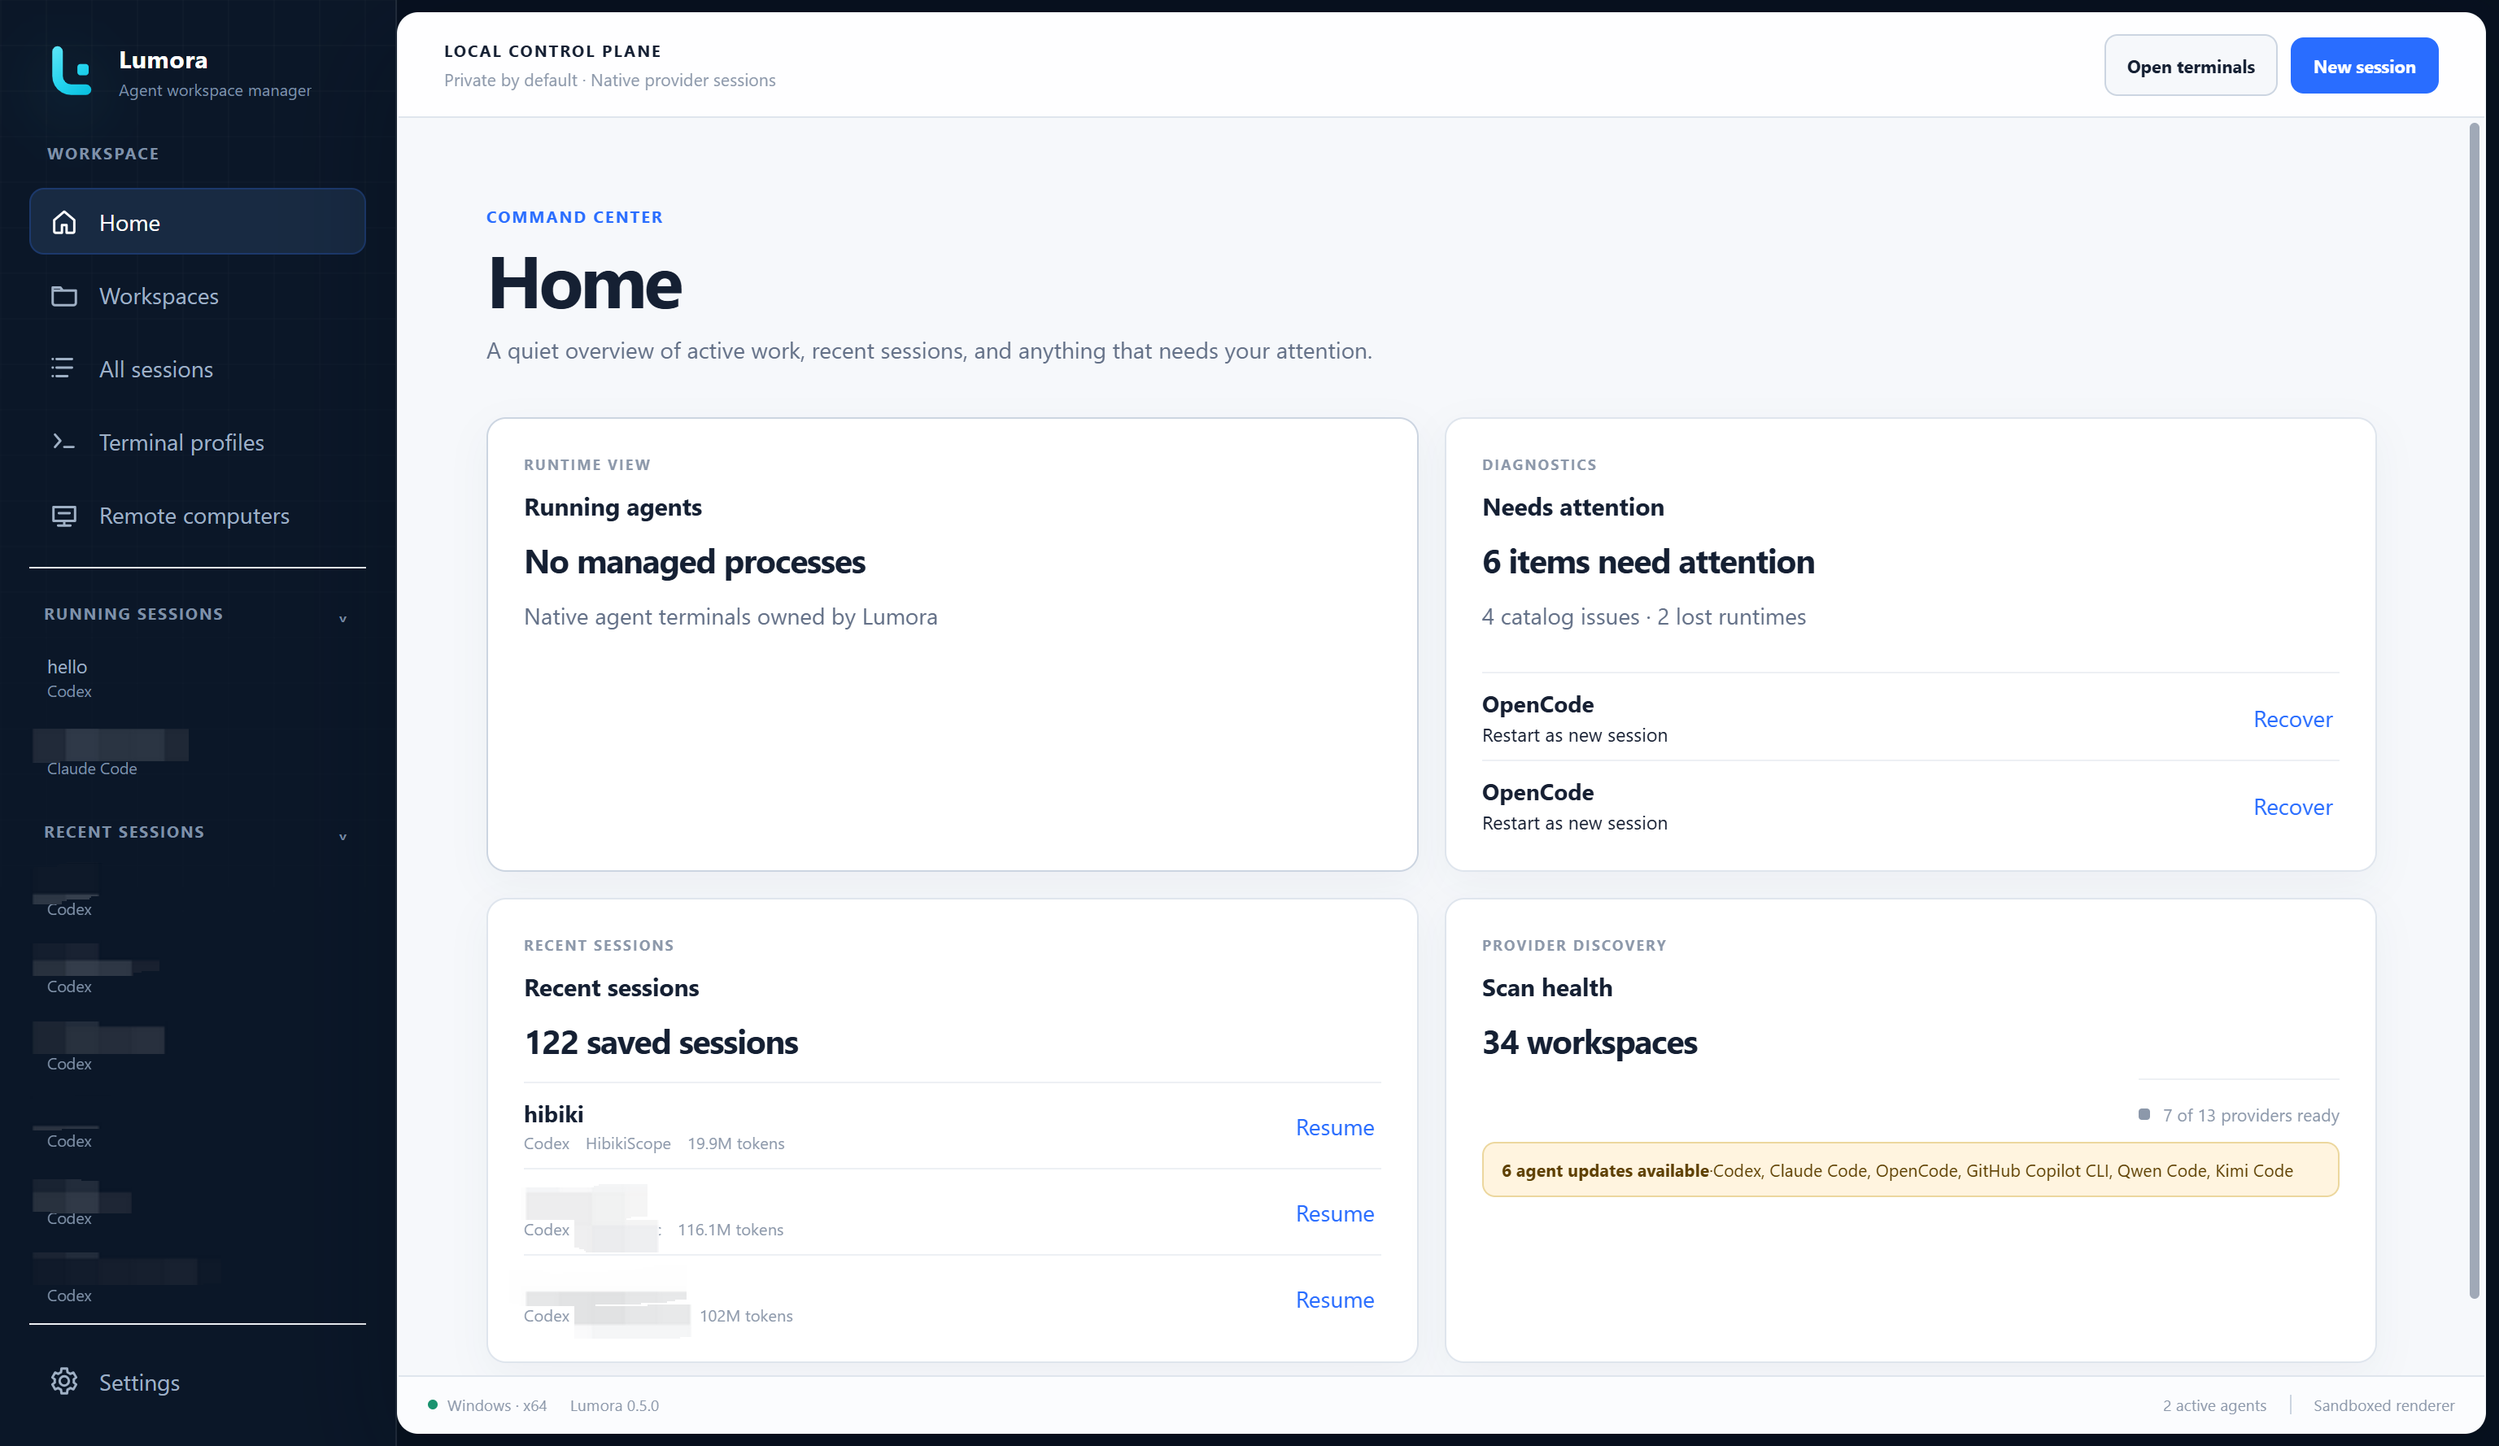
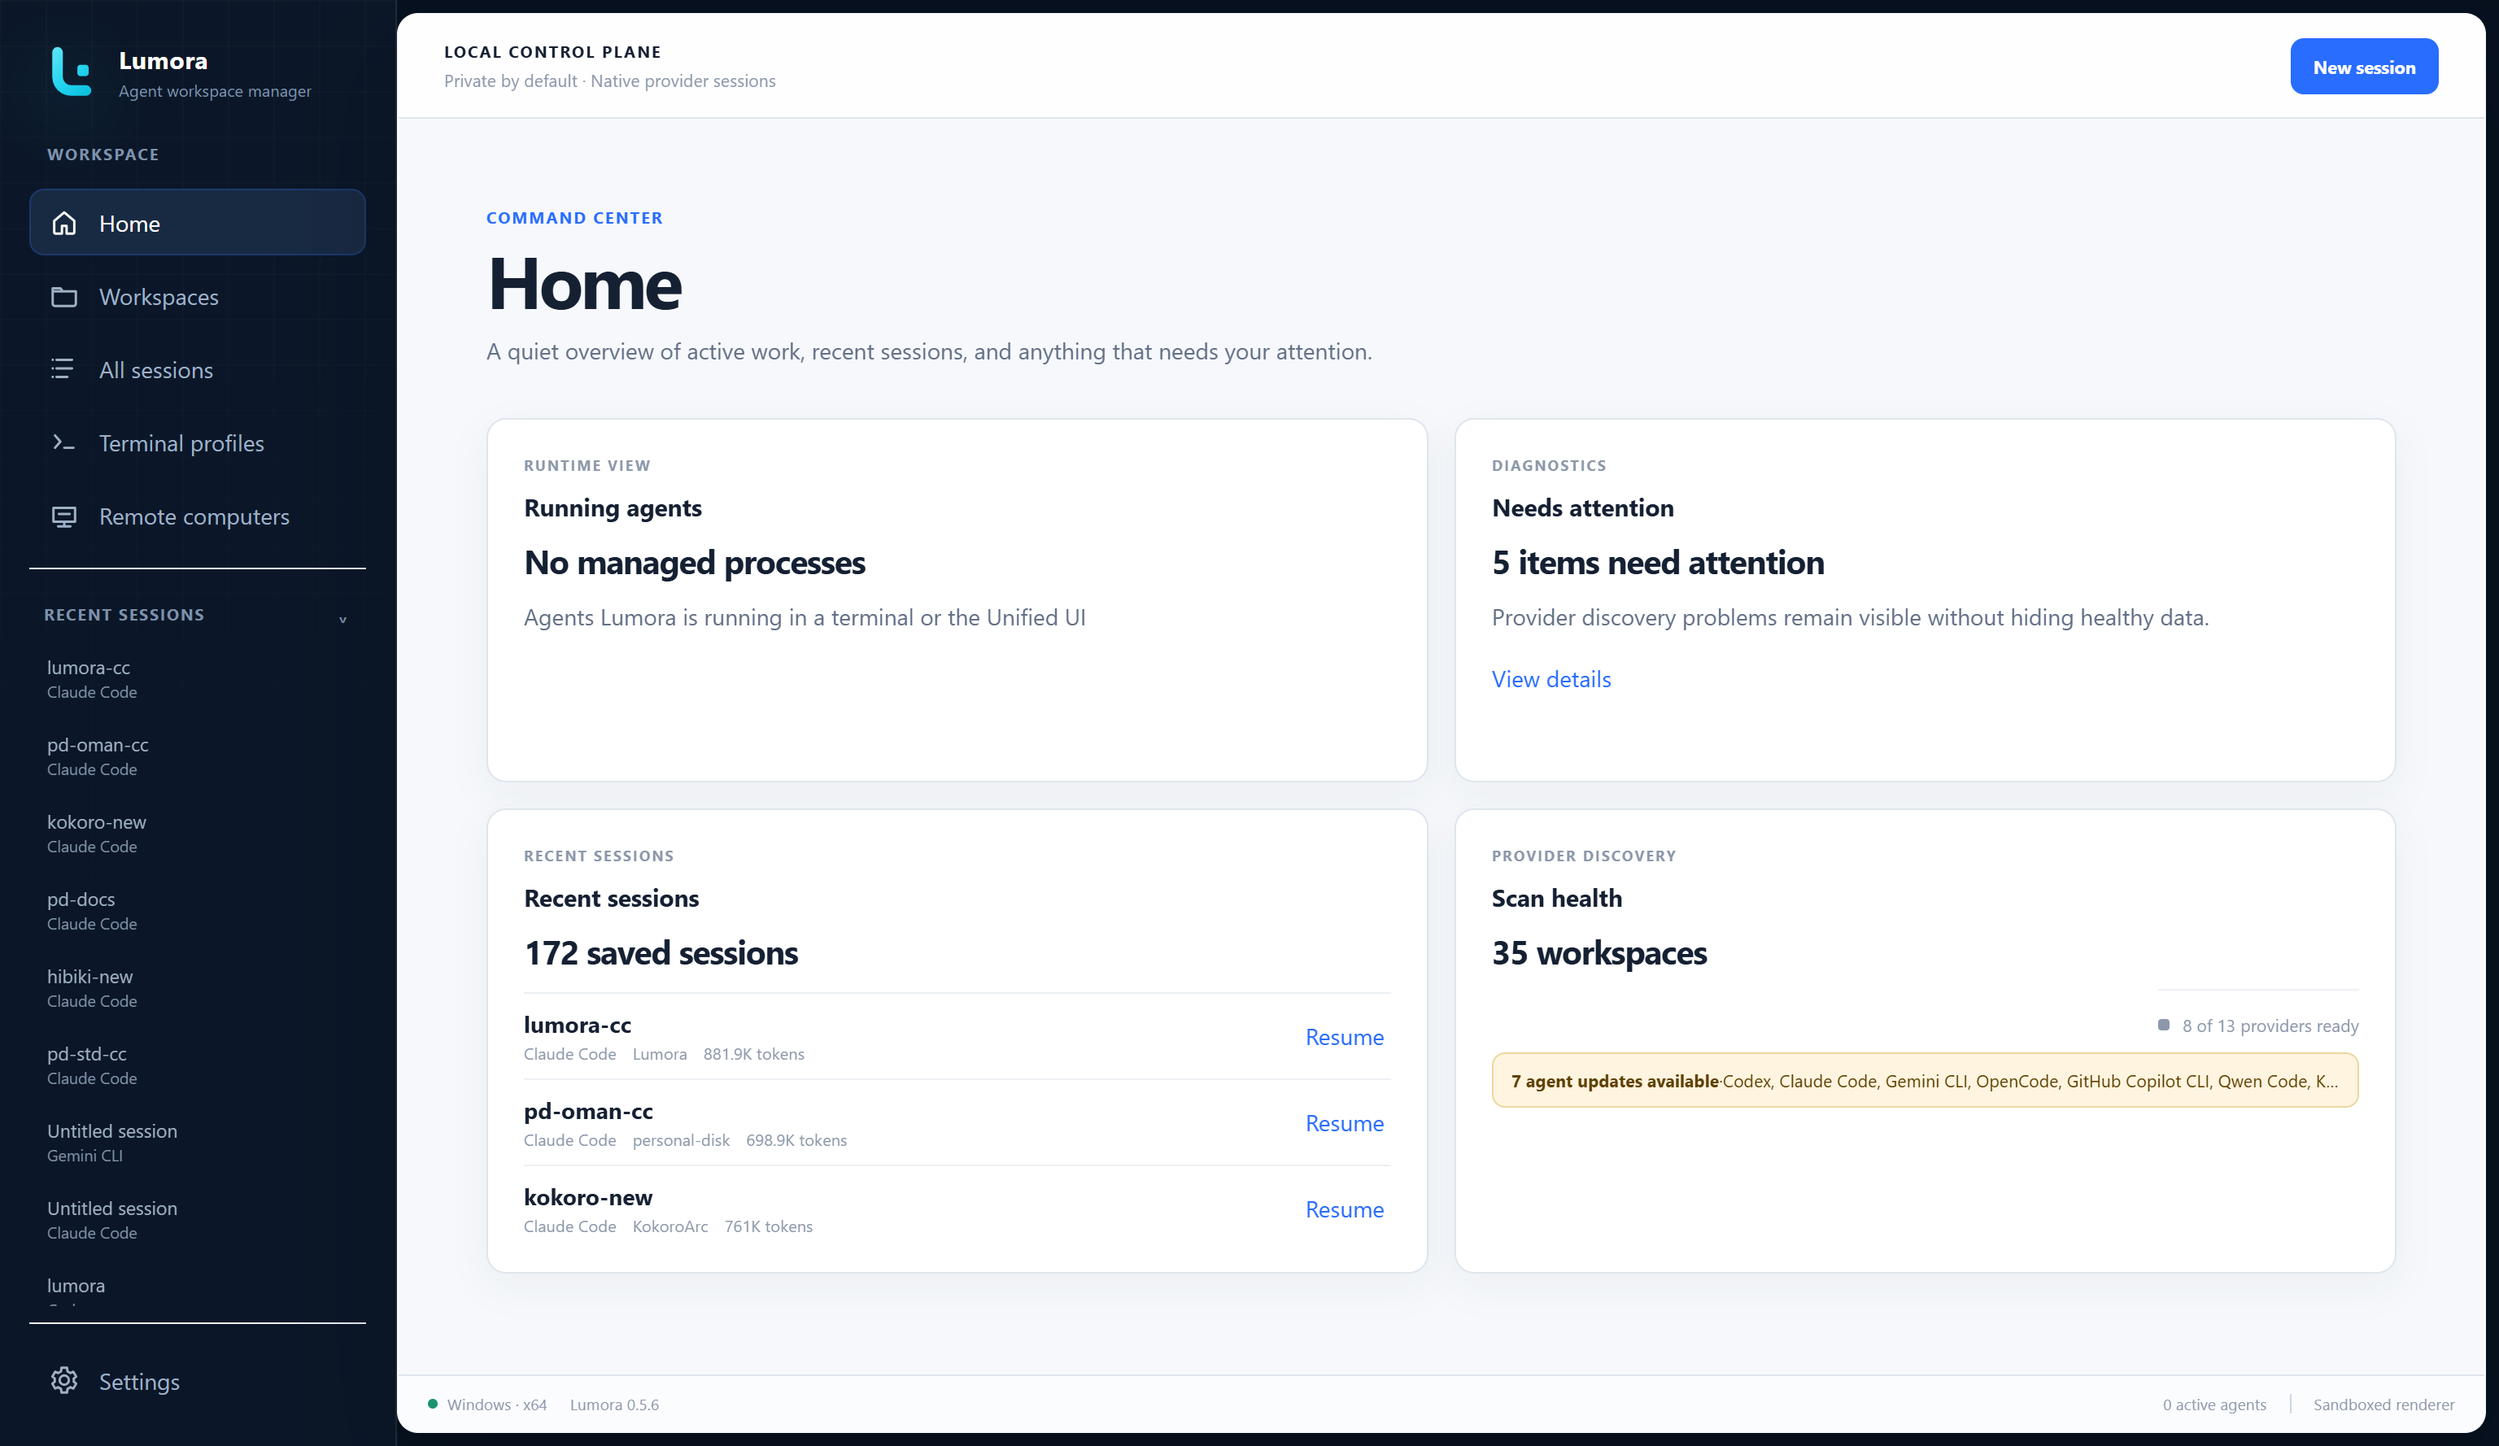
chore: release Lumora 0.5.6

diff --git a/docs/USER_GUIDE.md b/docs/USER_GUIDE.md
@@ -29,6 +29,10 @@ healthy providers from working.
 Home summarizes running agents, recent provider-owned sessions, catalog
 health, and provider updates that need attention.
 
+**Needs attention** reports one count. **View details** beside it opens a
+dialog listing each catalog issue with what it affects and how to clear it,
+and every lost runtime with its recovery action.
+
 <p align="center">
   <img src="screenshots/0.5/core/home.png" alt="Lumora 0.5 Home with running and recent sessions in the expanded sidebar" width="1100">
 </p>

diff --git a/docs/TROUBLESHOOTING.md b/docs/TROUBLESHOOTING.md
@@ -288,7 +288,8 @@ terminal.
 **Likely cause:** Generic PTY processes cannot be reattached after the Lumora
 application process exits.
 
-**Resolution:** Use Lumora's recovery action to resume the provider-owned
+**Resolution:** Open **View details** on the Home **Needs attention** card and
+use the recovery action beside the lost runtime to resume the provider-owned
 session or start it again. This limitation is tracked for future work.
 
 ### The terminal bottom is clipped or does not resize correctly

diff --git a/docs/RELEASING.md b/docs/RELEASING.md
@@ -174,11 +174,11 @@ change before creating the tag. The tag-triggered workflow runs
 
 ## Create the draft prerelease
 
-Push a tag that exactly matches the package version. For version `0.5.5`:
+Push a tag that exactly matches the package version. For version `0.5.6`:
 
 ```powershell
-git tag v0.5.5
-git push origin v0.5.5
+git tag v0.5.6
+git push origin v0.5.6
 ```
 
 The **Lumora unsigned prerelease** workflow then:

diff --git a/CHANGELOG.md b/CHANGELOG.md
@@ -7,6 +7,8 @@ and Lumora uses [Semantic Versioning](https://semver.org/spec/v2.0.0.html).
 
 ## [Unreleased]
 
+## [0.5.6] - 2026-09-07
+
 ### Changed
 
 - Move the detail out of the **Needs attention** card on Home. The card named
